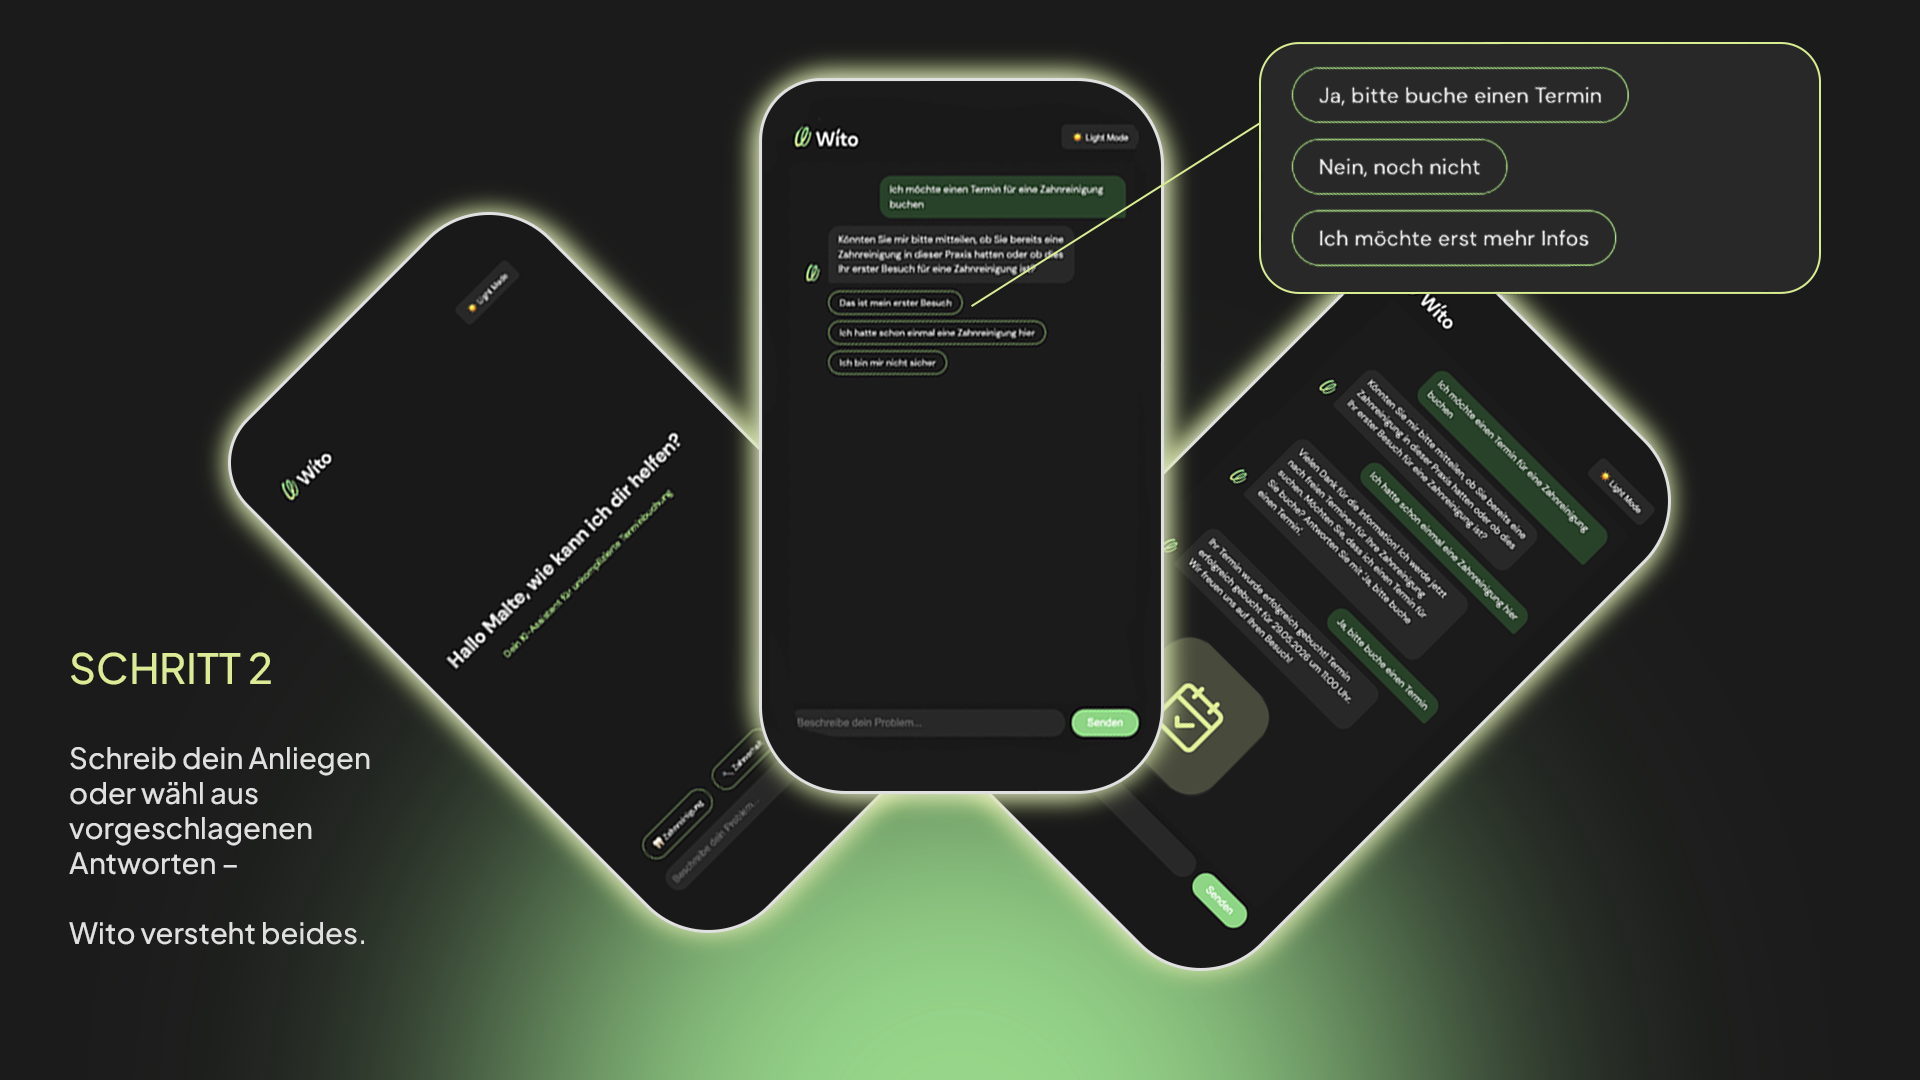
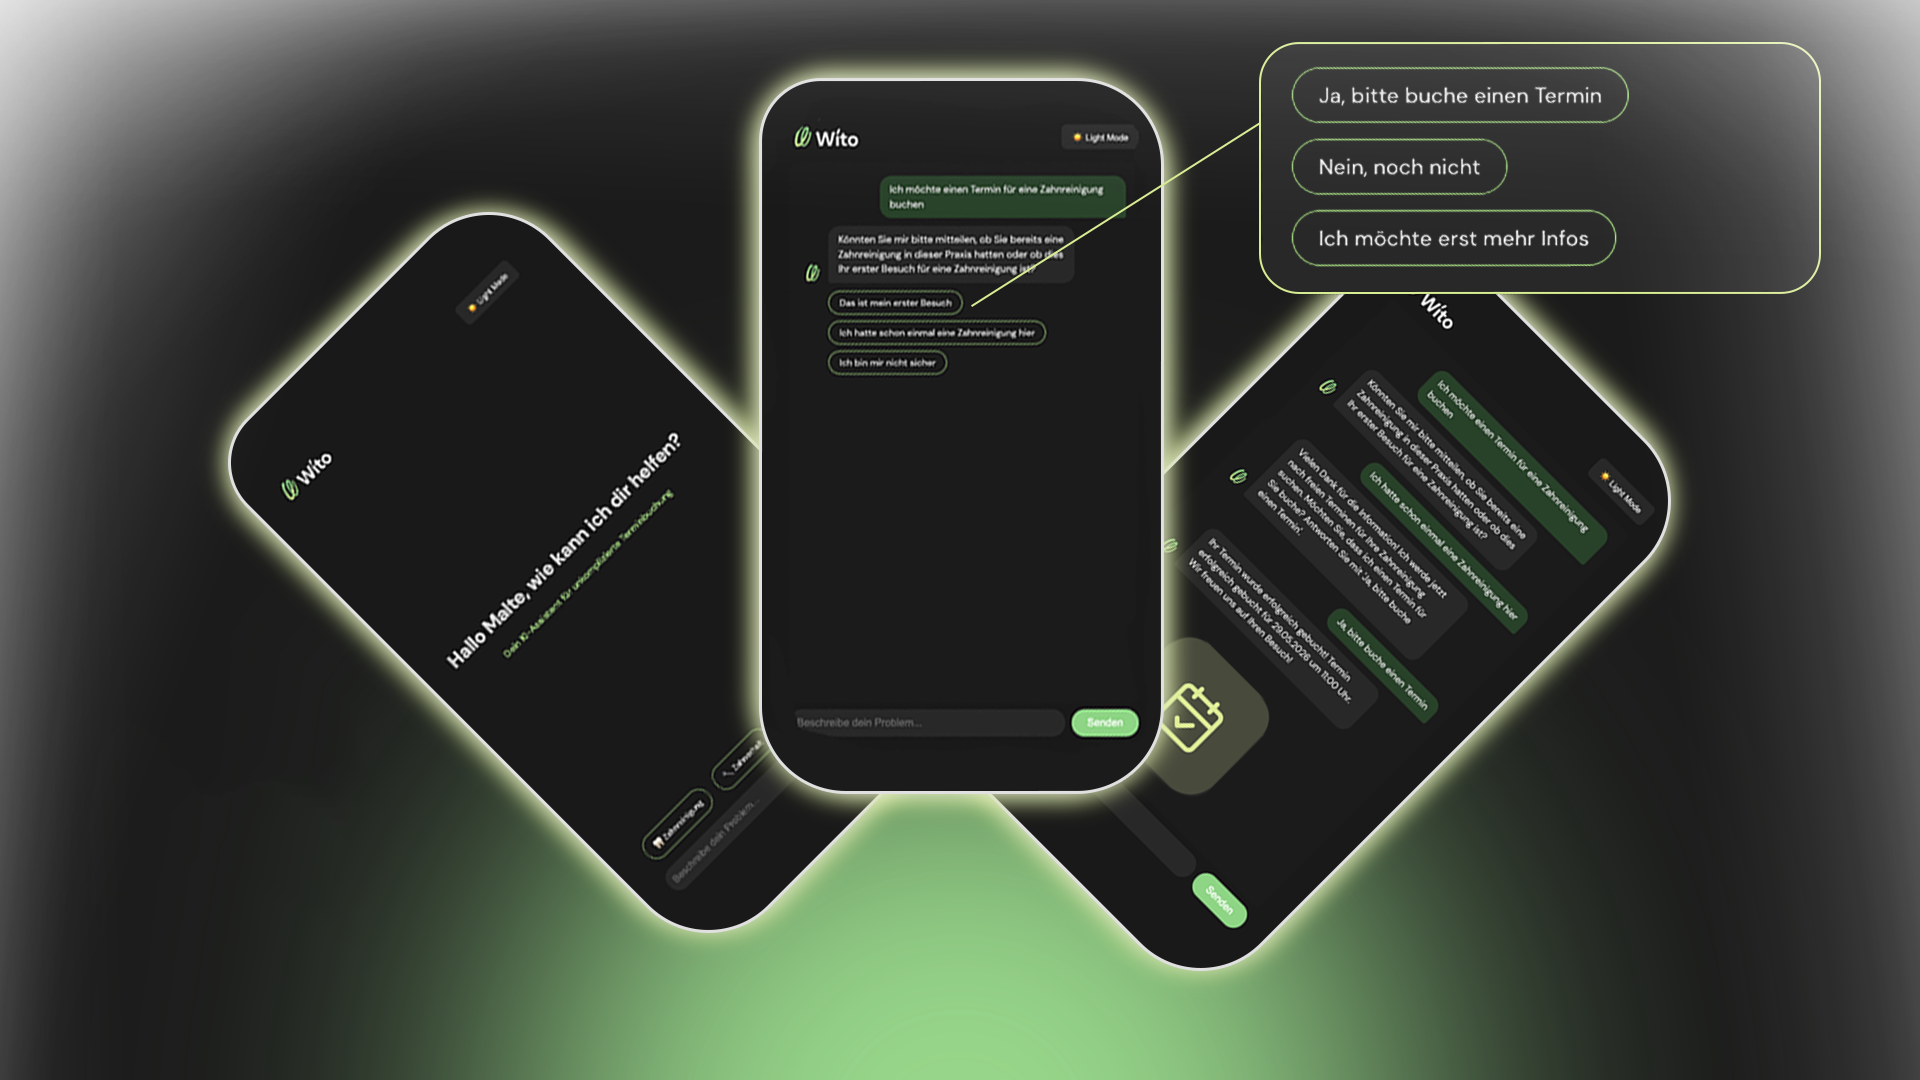
feat: added scrolling animation to show the chat. Added Wito Mascott video

Changed region(s): [[0.0, 0.0, 1.0, 1.0]]

diff --git a/script.js b/script.js
@@ -146,6 +146,8 @@
   var slide2 = document.querySelector('.step-scroll__slide--2');
   var slide3 = document.querySelector('.step-scroll__slide--3');
   var dots = document.querySelectorAll('.step-scroll__dot');
+  var texts = document.querySelectorAll('.step-text');
+  var mask3 = document.querySelector('.step-mask--3');
   if (!track || !slide2 || !slide3) return;
 
   function invlerp(a, b, v) {
@@ -155,7 +157,7 @@
   var targetO2 = 0, targetO3 = 0;
   var currentO2 = 0, currentO3 = 0;
   var rafId = null;
-  var activeStep = 0;
+  var activeStep = -1;
 
   function setStep(step) {
     if (step === activeStep) return;
@@ -163,6 +165,10 @@
     dots.forEach(function (dot, i) {
       dot.classList.toggle('is-active', i === step);
     });
+    texts.forEach(function (text, i) {
+      text.classList.toggle('is-active', i === step);
+    });
+    if (mask3) mask3.classList.toggle('is-active', step === 2);
   }
 
   function render() {

diff --git a/index.html b/index.html
@@ -266,7 +266,7 @@
             <div class="step-mask--3" aria-hidden="true"></div>
 
             <!-- Text-Overlays: gespiegelt aus den Originalbildern -->
-            <div class="step-text step-text--1 is-active">
+            <div class="step-text step-text--1">
               <span class="step-text__label">Schritt 1</span>
               <p class="step-text__body">Mit Wito wird die Terminbuchung einfach&nbsp;– dein KI-Assistent startet sofort!</p>
             </div>
@@ -280,7 +280,7 @@
             </div>
           </div>
           <div class="step-scroll__indicators" aria-hidden="true">
-            <span class="step-scroll__dot is-active"></span>
+            <span class="step-scroll__dot"></span>
             <span class="step-scroll__dot"></span>
             <span class="step-scroll__dot"></span>
           </div>